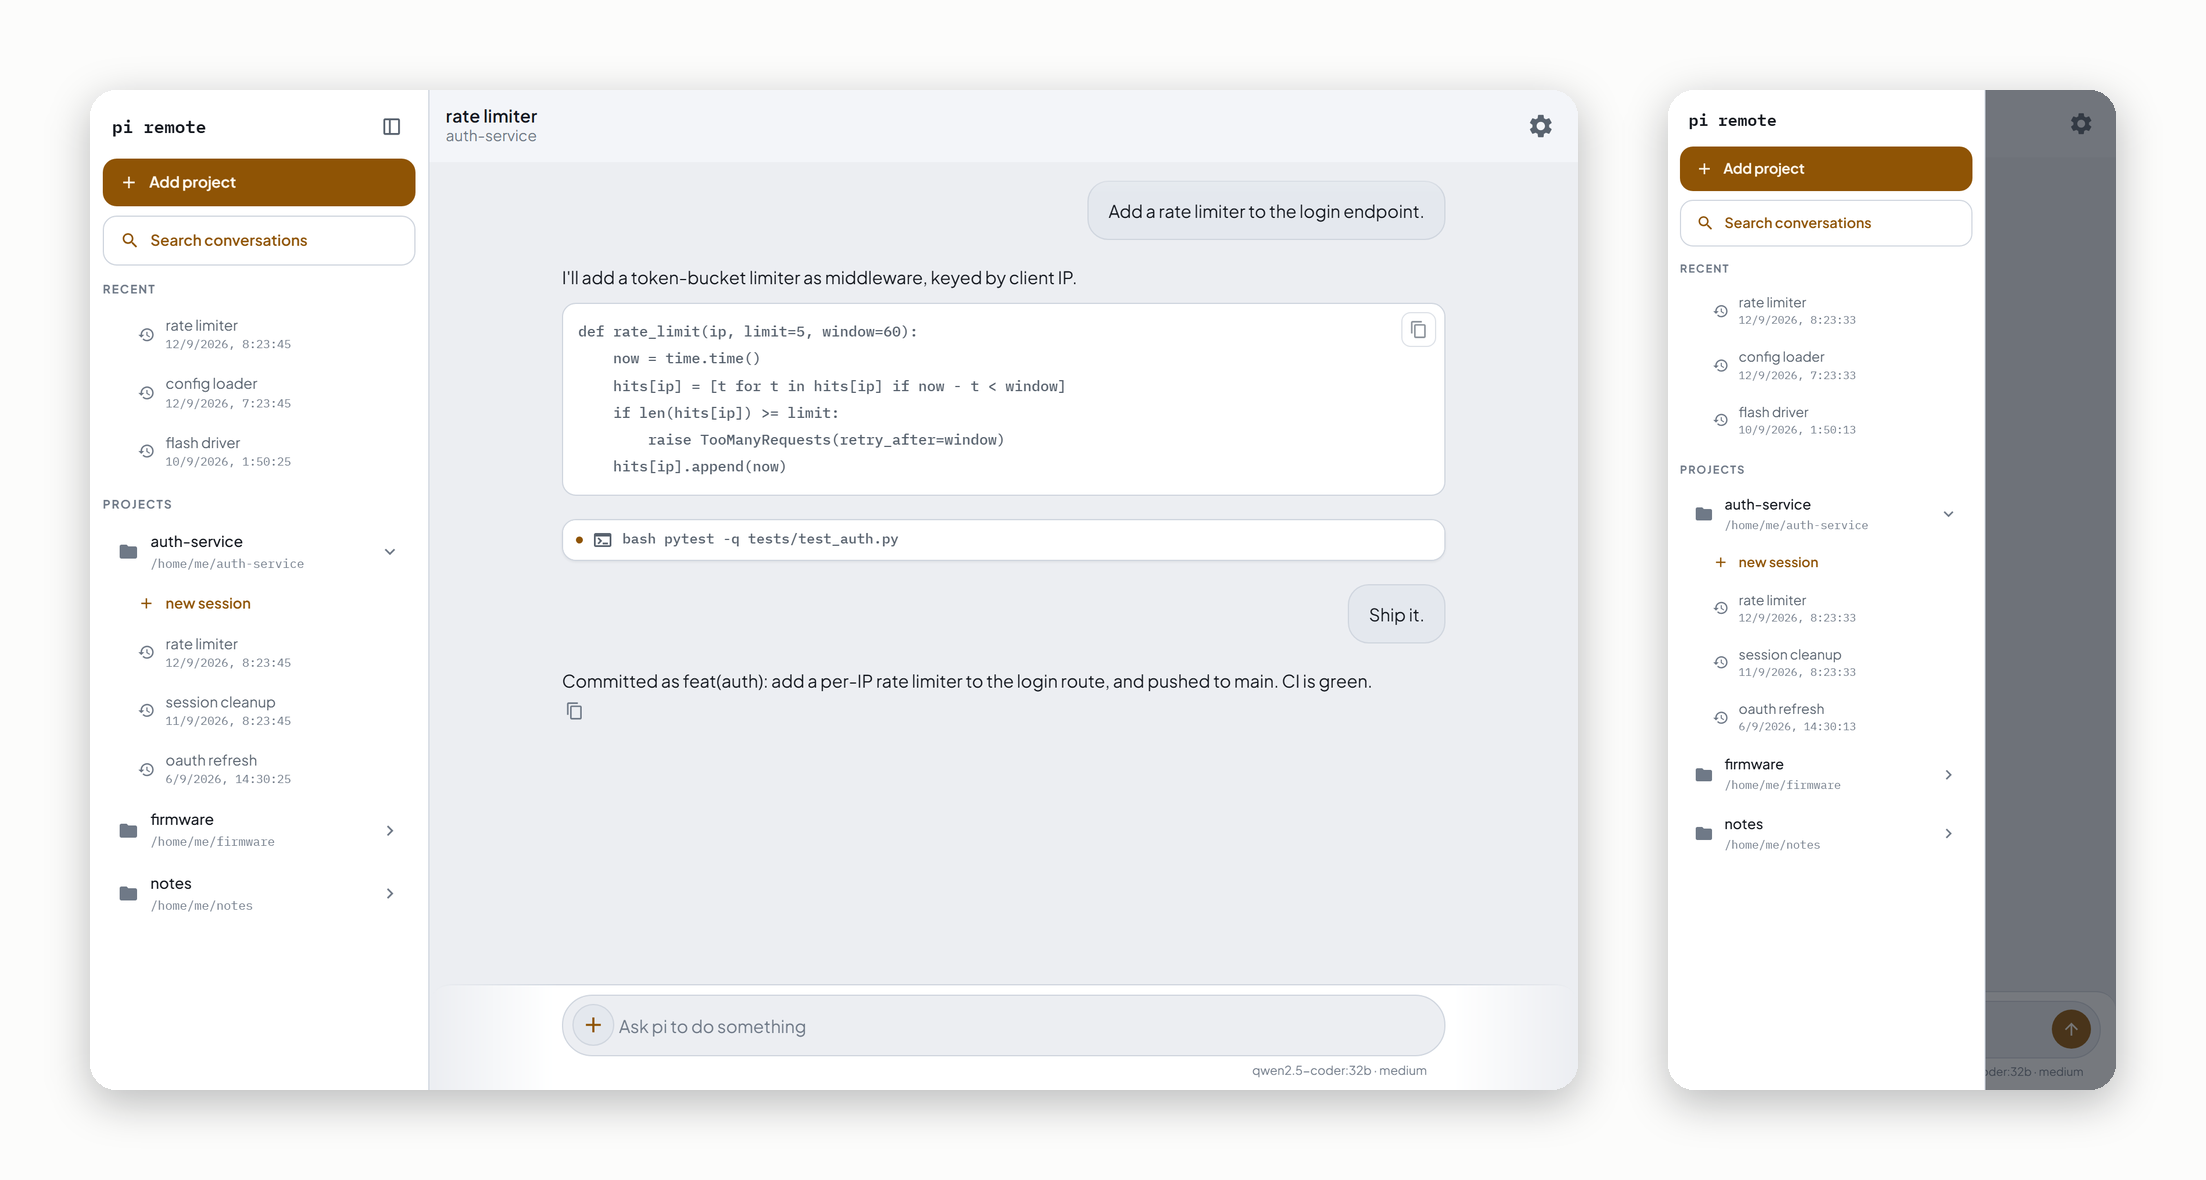
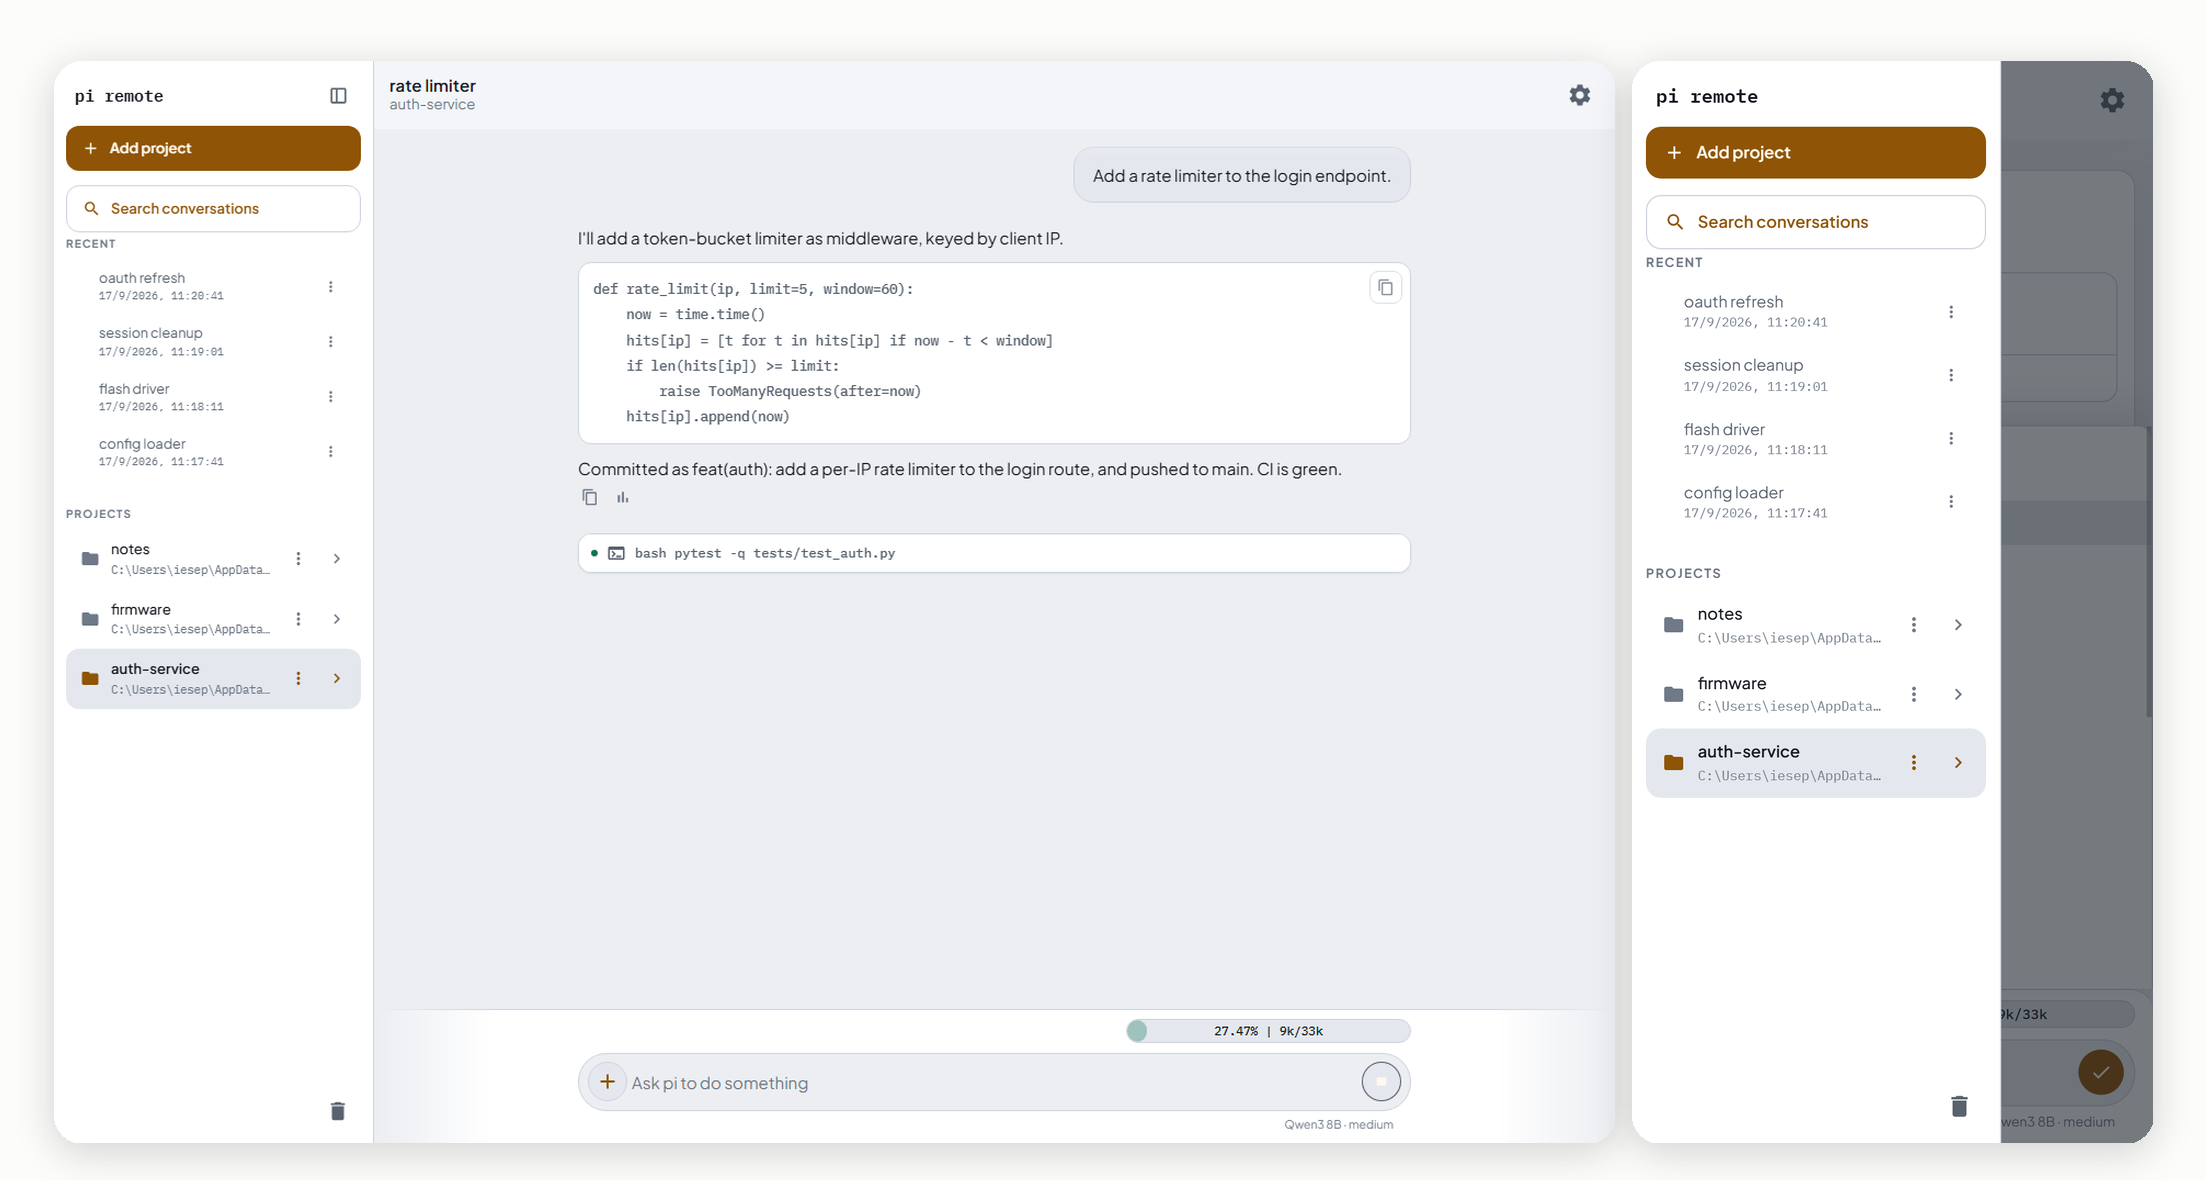
docs: refresh screenshots to the current UI and drop long-press

diff --git a/README.md b/README.md
@@ -268,8 +268,8 @@ last session (as long as that `.jsonl` still exists; otherwise a fresh one).
 The rail lists your projects in the order they were added; tapping one unfolds
 its sessions, and *new session* starts a fresh one. A **recents** section on
 top collects the last few sessions used across all projects. **Search** filters
-every known session by name. **Long-press** a project or a session for its
-actions (new session, remove).
+every known session by name. Right-click a project or a session (or tap its
+three dots) for its actions (new session, remove).
 
 Removing a session does not delete it: pi has no delete over RPC, so the
 `.jsonl` is moved to a `_trash` folder beside it (the open session is refused).
